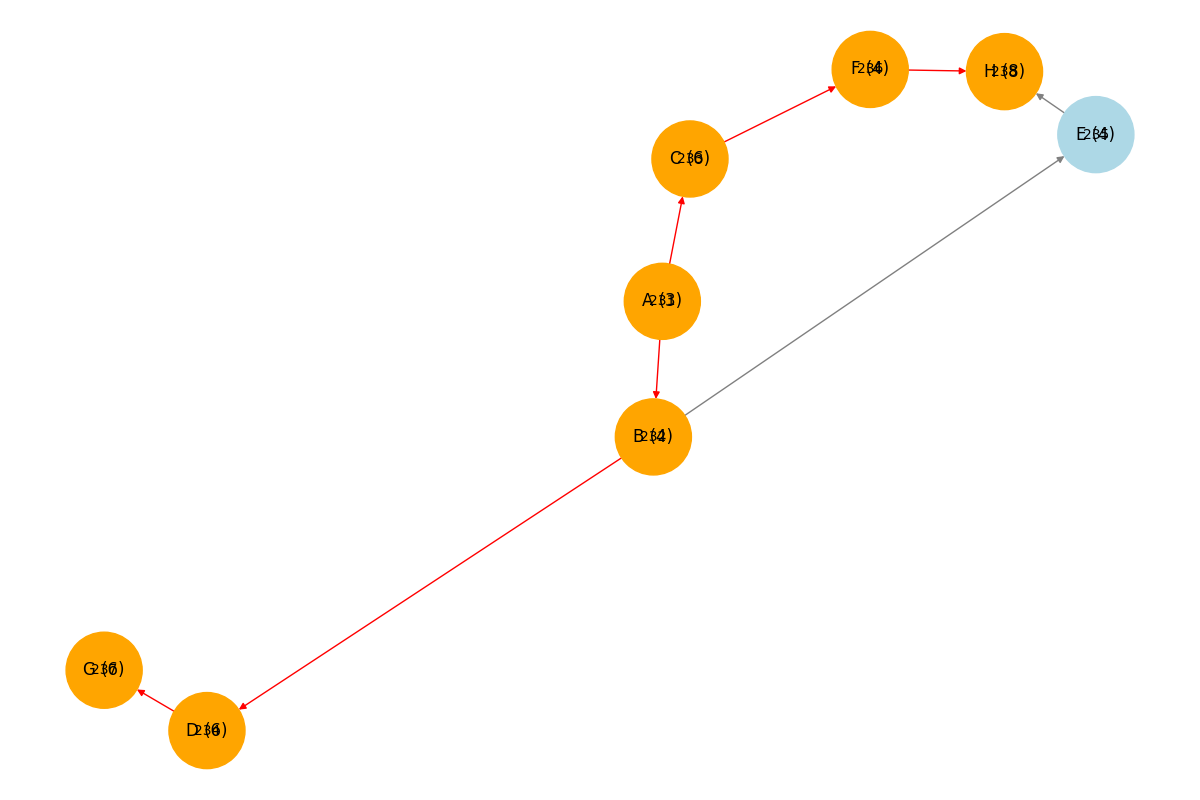
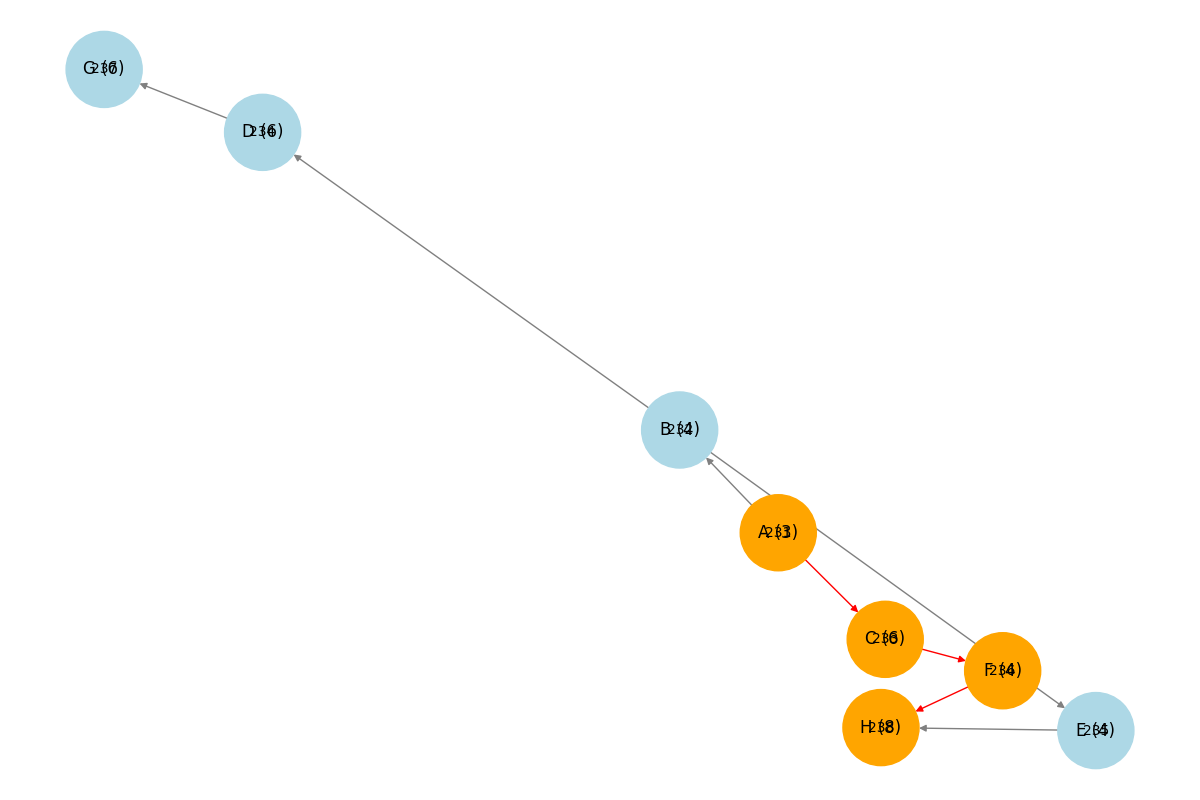
add new documents

diff --git a/src/models/calculation.py b/src/models/calculation.py
@@ -50,7 +50,6 @@ def calcular_ruta_critica(proyecto_id: int):
                               "inicio_tardio": float('inf'), "finalizacion_tardio": float('inf')}
                    for tarea_id in tareas_dict}
 
-        # Cálculo de tiempos tempranos
         print("\nCálculo de tiempos tempranos:")
         for tarea_id in tareas_dict:
             duracion = tareas_dict[tarea_id]["duracion_pert"]
@@ -61,27 +60,31 @@ def calcular_ruta_critica(proyecto_id: int):
             tiempos[tarea_id]["finalizacion_temprana"] = inicio_temprano + duracion
             print(f"Tarea {tarea_id} ({tareas_dict[tarea_id]['nombre']}): Inicio Temprano = {inicio_temprano}, Finalización Temprana = {inicio_temprano + duracion}")
 
-        # Cálculo de tiempos tardíos
-        # Cálculo de tiempos tardíos
         print("\nCálculo de tiempos tardíos:")
-        tareas_ordenadas = sorted(tareas_dict.keys(), reverse=True)  # Ordenar de manera inversa
-        for tarea_id in tareas_ordenadas:
-            duracion = tareas_dict[tarea_id]["duracion_pert"]
+
+        final_proyecto = max(tiempos[tarea_id]["finalizacion_temprana"] for tarea_id in tareas_dict)
+
+        for tarea_id in tareas_dict:
             if not sucesores_dict[tarea_id]:
-        # Si no tiene sucesores, igualar el tiempo tardío a la finalización temprana
-                tiempos[tarea_id]["finalizacion_tardio"] = tiempos[tarea_id]["finalizacion_temprana"]
-                tiempos[tarea_id]["inicio_tardio"] = tiempos[tarea_id]["finalizacion_tardio"] - duracion
-            else:
-        # Si tiene sucesores, tomar el tiempo tardío mínimo de sus sucesores
+                tiempos[tarea_id]["finalizacion_tardio"] = final_proyecto
+                tiempos[tarea_id]["inicio_tardio"] = final_proyecto - tareas_dict[tarea_id]["duracion_pert"]
+
+        tareas_ordenadas = sorted(tareas_dict.keys(), reverse=True)
+
+        for tarea_id in tareas_ordenadas:
+            if sucesores_dict[tarea_id]:
                 finalizacion_tardio = min(
-                    [tiempos[sucesor_id]["inicio_tardio"] for sucesor_id in sucesores_dict[tarea_id]]
+                    tiempos[sucesor_id]["inicio_tardio"] for sucesor_id in sucesores_dict[tarea_id]
                 )
                 tiempos[tarea_id]["finalizacion_tardio"] = finalizacion_tardio
-                tiempos[tarea_id]["inicio_tardio"] = finalizacion_tardio - duracion
+                tiempos[tarea_id]["inicio_tardio"] = finalizacion_tardio - tareas_dict[tarea_id]["duracion_pert"]
 
-            print(f"Tarea {tarea_id} ({tareas_dict[tarea_id]['nombre']}): Inicio Tardío = {tiempos[tarea_id]['inicio_tardio']}, Finalización Tardía = {tiempos[tarea_id]['finalizacion_tardio']}")
+            print(
+                f"Tarea {tarea_id} ({tareas_dict[tarea_id]['nombre']}): "
+                f"Inicio Tardío = {tiempos[tarea_id]['inicio_tardio']}, "
+                f"Finalización Tardía = {tiempos[tarea_id]['finalizacion_tardio']}"
+            )
 
-        # Cálculo de holguras y ruta crítica
         print("\nCálculo de holguras:")
         ruta_critica = []
         for tarea_id, tiempo in tiempos.items():
@@ -93,7 +96,6 @@ def calcular_ruta_critica(proyecto_id: int):
 
         ruta_critica_str = " -> ".join(ruta_critica)
         print(f"\nRuta crítica del proyecto {proyecto_id}: {ruta_critica_str}")
-
 
         if not ruta_critica_str:
             print(f"No se ha podido calcular la ruta crítica para el proyecto {proyecto_id}.")

diff --git a/arbol/ventana_principal.py b/arbol/ventana_principal.py
@@ -9,16 +9,15 @@ def ventana_principal() -> rx.Component:
 
     return rx.section(
         rx.flex(
-            rx.box(height="20px"),  # Espaciado superior
+            rx.box(height="20px"),
             rx.flex(
-                # Contenedor para centrar título y botón
                 rx.heading(
                     "Ventana principal para los cálculos del árbol N-ario",
                     size="lg",
                     text_align="center",
                     color="white",
                 ),
-                rx.box(height="20px"),  # Espaciado entre título y botón
+                rx.box(height="20px"),
                 rx.button(
                     "Agregar nuevo cálculo",
                     backgroundColor="#4CAF50",
@@ -32,9 +31,8 @@ def ventana_principal() -> rx.Component:
                 direction="column",
                 align="center",
             ),
-            rx.box(height="30px"),  # Espaciado entre el botón y la tabla
+            rx.box(height="30px"),
             rx.box(
-                # Contenedor de la tabla
                 rx.text(
                     "Proyectos",
                     font_size="lg",
@@ -44,9 +42,7 @@ def ventana_principal() -> rx.Component:
                     color="white",
                 ),
                 rx.box(
-                    # Tabla
                     rx.hstack(
-                        # Encabezado
                         rx.text("Nombre", font_weight="bold", text_align="center", flex="2", color="black"),
                         rx.text("Descripción", font_weight="bold", text_align="center", flex="4", color="black"),
                         rx.text("Fecha de Creación", font_weight="bold", text_align="center", flex="2", color="black"),
@@ -64,19 +60,19 @@ def ventana_principal() -> rx.Component:
                                 proyecto["nombre"],
                                 text_align="left",
                                 flex="2",
-                                color="#333",  # Color de texto visible
+                                color="#333",
                             ),
                             rx.text(
                                 proyecto["descripcion"],
                                 text_align="left",
                                 flex="4",
-                                color="#333",  # Color de texto visible
+                                color="#333",
                             ),
                             rx.text(
                                 proyecto["fecha_creacion"],
                                 text_align="center",
                                 flex="2",
-                                color="#333",  # Color de texto visible
+                                color="#333",
                             ),
                             rx.button(
                                 "Ver Gráfico",

diff --git a/arbol/grafo_cpm.py b/arbol/grafo_cpm.py
@@ -6,10 +6,13 @@ import sys
 import os
 sys.path.append(os.path.abspath(os.path.join(os.path.dirname(__file__), '../../')))
 from config.db_config import create_connection
+from urllib.parse import urlparse, parse_qs
 
 @rx.page(route="/grafo", title="Gráficos")
-def visualizar_ruta_critica(proyecto_id: str = 98):
-
+def visualizar_ruta_critica(proyecto_id: str = None):
+    print(f"Proyecto ID recibido: {proyecto_id}")
+    if not proyecto_id:
+        return rx.text("Error: No se proporcionó un ID de proyecto.")
     try:
         connection = create_connection()
         if not connection:
@@ -36,7 +39,6 @@ def visualizar_ruta_critica(proyecto_id: str = 98):
             cursor.execute(query_dependencias, (proyecto_id,))
             dependencias = cursor.fetchall()
 
-        # Crear el grafo
         G = nx.DiGraph()
         for tarea_id, nombre, duracion in tareas:
             G.add_node(tarea_id, label=nombre, duracion=duracion)
@@ -44,27 +46,24 @@ def visualizar_ruta_critica(proyecto_id: str = 98):
         for tarea_id, predecesor_id in dependencias:
             G.add_edge(predecesor_id, tarea_id)
 
-        # Calcular ruta crítica
         ruta_critica = calcular_ruta_critica(proyecto_id)
 
         if not ruta_critica:
             print(f"No se pudo calcular la ruta crítica para el proyecto {proyecto_id}.")
             return rx.text(f"No se pudo calcular la ruta crítica para el proyecto {proyecto_id}.")
 
-        # Resaltar la ruta crítica
         ruta_nodos = [t[0] for t in tareas if t[1] in ruta_critica.split(" -> ")]
         node_colors = ["orange" if node in ruta_nodos else "lightblue" for node in G.nodes]
         edge_colors = ["red" if (u in ruta_nodos and v in ruta_nodos) else "gray" for u, v in G.edges]
 
-        # Dibujar y guardar la imagen
         pos = nx.spring_layout(G)
         plt.figure(figsize=(12, 8))
         nx.draw(G, pos, with_labels=True, node_color=node_colors, edge_color=edge_colors, node_size=3000, font_size=10)
         nx.draw_networkx_labels(G, pos, labels={n: f"{G.nodes[n]['label']} ({G.nodes[n]['duracion']})" for n in G.nodes})
         plt.title(f"Ruta Crítica del Proyecto {proyecto_id}")
-        plt.savefig("assets/ruta_critica.png")  # Guardar en la carpeta 'assets'
+        plt.savefig("assets/ruta_critica.png")
 
-        return rx.image(src="/ruta_critica.png")  # Mostrar la imagen
+        return rx.image(src="/ruta_critica.png")
 
     except Exception as e:
         print(f"Error al visualizar la Ruta Crítica: {str(e)}")
